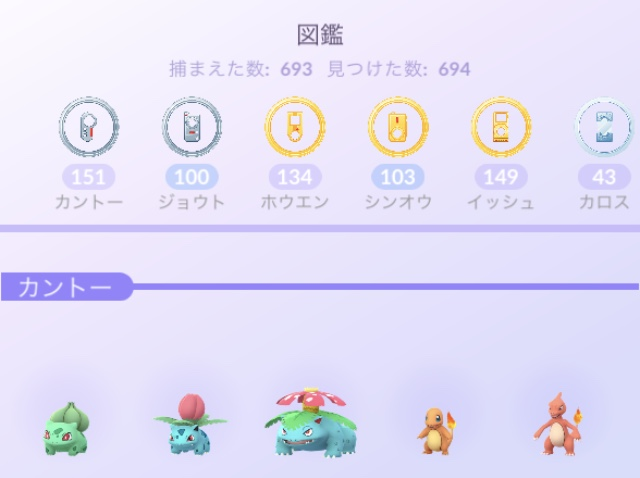
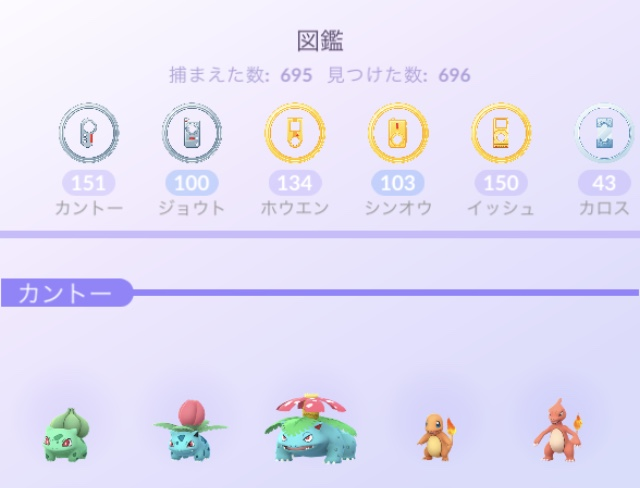
fix

diff --git a/content/blog/2021-10-03-pogo.md b/content/blog/2021-10-03-pogo.md
@@ -1,0 +1,22 @@
++++
+date = "2021-10-03"
+tags = ["pokemon","pogo"]
+title = "ポケモンGo、タスク消化"
+slug = "pogo"
++++
+
+最近、あまりプレイしてなかったのでイベントタスクが山積みになってて、それを消化しました。
+
+![](https://raw.githubusercontent.com/syui/img/master/other/pokemongo_2021002_0003.jpg)
+
+今回、映画ココとメロエッタ、ロケット団サカキ(シャドウ・ホウオウ)、カードコラボ(メルタン)のタスクを全部こなしました。ちょっとは進んでたものも含みます。3時間くらい外をうろちょろしてたら終わりました。クリア条件などが重なってるものも多く、割と効率良く進められたと思います。
+
+![](https://raw.githubusercontent.com/syui/img/master/other/pokemongo_2021002_0004.jpg)
+![](https://raw.githubusercontent.com/syui/img/master/other/pokemongo_2021002_0005.jpg)
+
+クリア条件が重なるというのは、例えば、ロケット団下っ端と戦うというタスクがあったとして、それが複数のイベントタスクのクリア条件に指定されてる場合、複数のイベントタスクを進めることができました。ということで、イベントが来てすぐにこなすのもいいけど、定期にこなすのも悪くないって思いました。まあ、あまり山積みにしちゃうと、消化できる気がしなくなり、やる気もなくなるので、貯めるのもほどほどがいいと思いますが。
+
+ちなみに、サカキは9/2までだったみたいで、現れませんでした。これ放置してて見逃したみたい。でもサカキレーダー取れたので次が楽。
+
+![](https://raw.githubusercontent.com/syui/img/master/other/pokemongo_2021002_0002.jpg)
+
